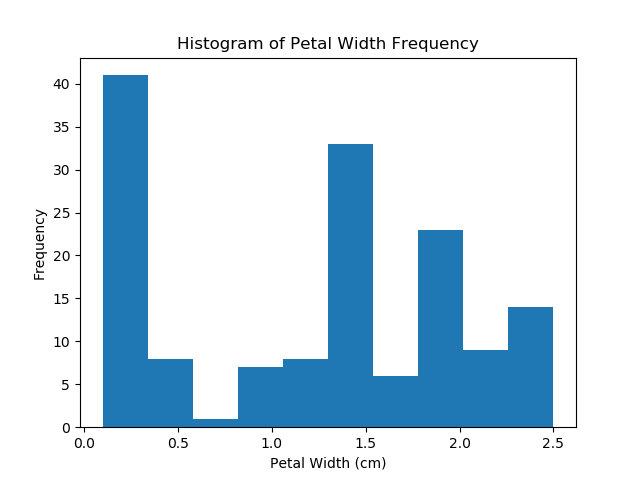
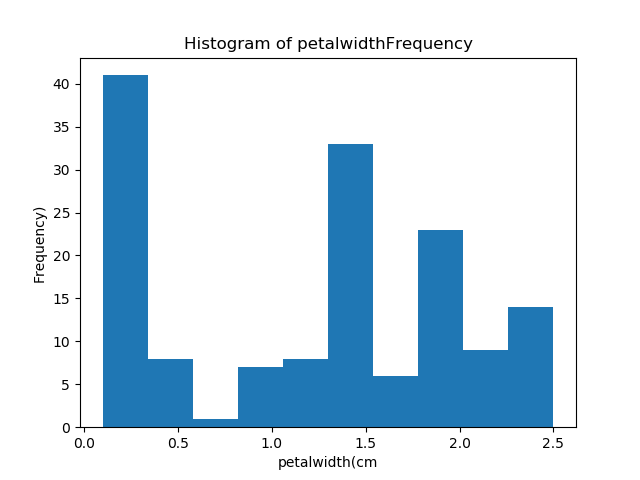
Histograms are now being created via For loop, rather than being hardcoded individually.

Changed region(s): [[0.2812, 0.0625, 0.75, 0.125], [0.4062, 0.9375, 0.5938, 1.0], [0.0312, 0.4375, 0.0938, 0.5938]]

diff --git a/irisAnalysis.py b/irisAnalysis.py
@@ -20,9 +20,11 @@
 
 import pandas as pd
 from matplotlib import pyplot as plt
+# Setting csv to be a global variable, will mean program can be adapted to other files.
+csv = 'iris_csv.csv'
 
 # Save the csv to a pandas data frame. I'm setting the index to be the class column.
-df = pd.read_csv("iris_csv.csv", index_col = "class")
+df = pd.read_csv(csv, index_col = "class")
 
 plt.scatter(df['sepallength'],df['sepalwidth'])
 plt.xlabel("Sepal Length (cm)")
@@ -59,30 +61,10 @@ plt.title("Sepal Width vs Petal Width (cm)")
 plt.savefig("sepalWidthVsPetalWidth.png")
 plt.clf()
 
-plt.hist(df['sepalwidth'])
-plt.xlabel("Sepal Width (cm)")
-plt.ylabel("Frequency")
-plt.title("Histogram of Sepal Width Frequency")
-plt.savefig("sepalWidthHist.png")
-plt.clf()
-
-plt.hist(df['sepallength'])
-plt.xlabel("Sepal Length (cm)")
-plt.ylabel("Frequency")
-plt.title("Histogram of Sepal Length Frequency")
-plt.savefig("sepalLengthHist.png")
-plt.clf()
-
-plt.hist(df['petalwidth'])
-plt.xlabel("Petal Width (cm)")
-plt.ylabel("Frequency")
-plt.title("Histogram of Petal Width Frequency")
-plt.savefig("petalWidthHist.png")
-plt.clf()
-
-plt.hist(df['petallength'])
-plt.xlabel("Petal Length (cm)")
-plt.ylabel("Frequency")
-plt.title("Histogram of Petal Length Frequency")
-plt.savefig("petalLengthHist.png")
-plt.clf()
+for measurement in df.columns:
+    plt.hist(df[measurement])
+    plt.xlabel(measurement + '(cm')
+    plt.ylabel ("Frequency)")
+    plt.title("Histogram of " + measurement + "Frequency")
+    plt.savefig(measurement +"Hist.png")
+    plt.clf()
